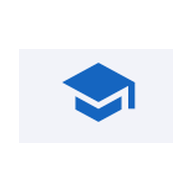
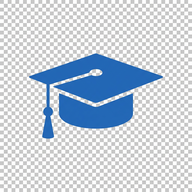
アイコン・ロゴ完全差し替え - ルートicons/更新 + アプリ内ロゴを画像に変更

diff --git a/lib/screens/home_screen.dart b/lib/screens/home_screen.dart
@@ -32,7 +32,7 @@ class HomeScreen extends StatelessWidget {
                     padding: const EdgeInsets.all(24.0),
                     child: Column(
                       children: [
-                        const Icon(Icons.school, size: 64, color: Color(0xFF1565C0)),
+                        Image.asset('assets/logo.png', width: 64, height: 64),
                         const SizedBox(height: 16),
                         const Text(
                           '適性検査対策アプリ',
